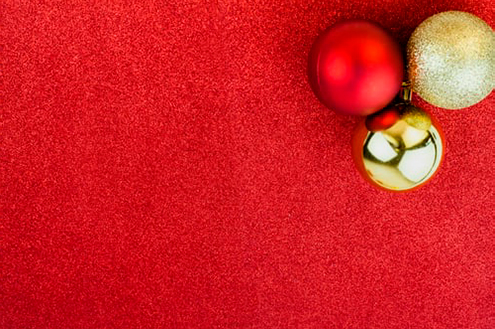
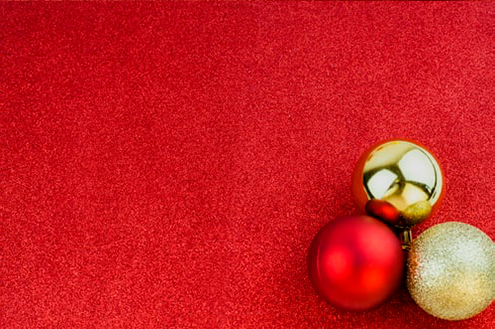
The practical task has been fixed

diff --git a/css/sale.css b/css/sale.css
@@ -129,7 +129,7 @@
   font-size: 40px;
   background-color: var(--fon-colops);
   border-radius: 20px;
-  padding: 25px 23px;
+  padding: 26px 21px;
   line-height: 59px;
 }
 
@@ -236,6 +236,9 @@
   background-image: url(../img/toys.jpg);
   background-repeat: no-repeat;
   border-radius: 20px;
+  background-position-x: 100%;
+  background-position-y: 100%;
+  background-size: 474px 341px;
 }
 
 
@@ -301,7 +304,9 @@
 
   .sale__sneakers {
     grid-area: 4 / 2 / 4 / 1;
-    background-position-x: 65%;
+    background-position-y: -2px;
+    background-position-x: -47px;
+    background-size: 360px 260px;
   }
 
   .sale__gift {
@@ -358,22 +363,25 @@
 
   .sale__sneakers {
     grid-area: 4 / 1 / 4 / 3;
-    background-size: 100%;
+    background-position-x: 0px;
+    background-position-y: -101px;
+    background-size: 580px 400px;
   }
 
   .sale__gift {
     grid-area: 3 / 5 / 5 / 3;
-    background-size: 100%;
   }
 
   .sale__idea {
     grid-area: 5 / 1 / 5 / 3;
-    background-size: 100%;
+    background-size: 567px 412px;
+    background-position-y: -106px;
   }
 
   .sale__profitably {
     grid-area: 6 / 3 / 6 / 1;
-    background-size: 100%;
+    background-position-y: -87px;
+    background-size: 569px 401px;
   }
 
   .sale__trappings {
@@ -382,7 +390,8 @@
 
   .sale__dresses {
     grid-area: 5 / 3 / 7 / 3;
-    background-size: 103%;
+    background-size: 442px 566px;
+    background-position-x: -101px;
   }
 
   .sale__chemical {
@@ -403,7 +412,7 @@
   .sale__list {
     gap: 24px;
     grid-template-columns: 217px 217px 217px 217px;
-    grid-template-rows: 217px 71px 217px 217px 217px 217px 217px 217px;
+    grid-template-rows: 217px 71px 217px 217px 217px 217px 217px 177px;
   }
 
   .sale__book, 
@@ -417,27 +426,26 @@
   .sale__chemical, 
   .sale__toys {
     border-radius: 16px;
-    background-size: cover;
   }
 
   .sale__laptop {
-    padding: 84px 112px 41px 80px;
-    background-position-x: -3px;
-    background-size: 101%;
-    background-position-y: 49.5%;
+    padding: 83px 112px 41px 80px;
+    background-position-x: -126px;
+    background-size: 119%;
+    background-position-y: 38.5%;
   }
 
   .sale__title {
     letter-spacing: 0.8px;
     line-height: 51px;
     font-size: 38px;
-    margin-bottom: 13px;
+    margin-bottom: 12px;
     width: 40%;
   }
 
   .sale__stock {
     margin-left: 32px;
-    margin-bottom: 13px;
+    margin-bottom: 15px;
   }
 
   .sale__num {
@@ -466,6 +474,9 @@
   .sale__book {
     padding: 128px 14px 23px 8px;
     line-height: 32px;
+    background-position-x: 50%;
+    background-position-y: 30%;
+    background-size: 290px 219px;
   }
 
   .sale__book-fw {
@@ -478,6 +489,9 @@
 
   .sale__discounts {
     padding: 61px 14px 8px 8px;
+    background-position-x: 50%;
+    background-position-y: 16%;
+    background-size: 330px 215px;
   }
 
   .sale__discounts-percent {
@@ -488,13 +502,15 @@
 
   .sale__sneakers {
     padding: 9px;
-    background-size: 101%;
-    background-position-y: 65%;
-    background-position-x: 50%;
+    background-position-y: -86px;
+    background-size: 458px 348px;
   }
 
   .sale__gift {
     padding: 290px 20px 20px 20px;
+    background-size: 490px 658px;
+    background-position-x: 0px;
+    background-position-y: -101px;
   }
 
   .sale__gift-text {
@@ -509,9 +525,8 @@
 
   .sale__idea {
     padding: 110px 33px 10px 21px;
-    background-position-y: -77px;
-    background-size: 100%;
-    background-position-x: 1px;
+    background-position-y: -87px;
+    background-size: 456px 351px;
   }
 
   .sale__idea-text {
@@ -520,21 +535,110 @@
     width: 80%;
     line-height: 40px;
   }
-}
 
-@media (max-width: 1024px)  {
-  .container {
-    max-width: 997px;
+  .sale__profitably {
+    padding: 119px 10px 10px 20px;
+    background-position-y: -76px;
+    background-size: 455px 352px;
+  }
+
+  .sale__profitably-text {
+    font-size: 30px;
+    padding-top: 42px;
+  }
+
+  .sale__profitably-percent {
+    padding-top: 29px;
+  }
+
+  .sale__dresses {
+    padding: 360px 10px 10px 119px;
+    background-size: 373px 456px;
+    background-position-x: -78px;
+  }
+
+  .sale__chemical {
+    background-size: 306px 216px;
+    padding: 9px 10px 10px 10px;
+  }
+
+  .sale__chemical-text {
+    font-size: 20px;
+    margin-top: 75px;
+    margin-left: 3px;
+  }
+
+  .sale__toys {
+    background-position-y: 103%;
+    background-size: 447px 298px;
+  }
+
+  .sale__trappings {
+    background-size: 938px 707px;
+    padding: 295px 10px 10px 30px;
+    background-position-y: -171px;
+  }
+
+  .sale__trappings-text {
+    width: 514px;
+    padding: 28px 47px 20px 46px;
+    font-size: 31px;
+    letter-spacing: -0.7px;
   }
 }
 
 @media (max-width: 997px)  {
-  .container {
-    max-width: 760px;
+  .sale__list {
+    gap: 20px;
+    grid-template-columns: 140px 140px 220px 140px;
+    grid-template-rows: 140px 120px 140px 140px 140px 140px 140px 177px;
   }
+
+  .sale__laptop {
+    padding: 61px 112px 41px 80px;
+  }
+
+  .sale__title {
+    font-size: 29px;
+    width: 65%;
+    letter-spacing: 0.5px;
+    margin-bottom: 76px;
+  }
+
+  .sale__stock {
+    font-size: 12px;
+    margin-left: 30px;
+    margin-bottom: 14px;
+  }
+
+  .sale__num {
+    font-size: 30px;
+  }
+
+  .sale__day,
+  .sale__oclock,
+  .sale__min {
+    font-size: 16px;
+  }
+
+  .sale__day {
+    width: 0;
+    /* Фальшивые данные исправить */
+  }
+
+  .sale__oclock {
+    width: 0;
+    /* Фальшивые данные исправить */
+  }
+
+  .sale__min {
+    width: 111px;
+    padding: 1px 1px 1px 1px;
+  }
+
 }
 
-@media (max-width: 768px)  {
+@media (max-width: 767px)  {
   .container {
     max-width: 560px;
   }

diff --git a/css/header.css b/css/header.css
@@ -228,23 +228,27 @@
 }
 
 @media (max-width: 997px)  {
+  .header {
+    padding-bottom: 25px;
+  }
+
   .header__block {
-    grid-template-columns: 161px 369px 110px 59px;
+    grid-template-columns: 161px 368px 110px 59px;
     grid-column-gap: 0px;
     grid-row-gap: 2px;
   }
 
   .header__logo{
-    width: 165px;
+    width: 164px;
     height: 35px;
     margin-top: 13px;
   }
 
   .nav__btn {
     font-size: 16px;
-    width: 115px;
-    height: 42px;
-    padding: 15px 20px;
+    width: 114px;
+    height: 41px;
+    padding: 11px 21px;
     border-radius: 6px;
   }
 
@@ -255,15 +259,15 @@
   .header__inp {
     height: 42px;
     font-size: 12px;
-    padding: 14px 100px 14px 40px;
+    padding: 13px 92px 14px 28px;
     width: 540px;
   }
 
   .header__btn {
-    width: 82px;
+    width: 81px;
     height: 42px;
     top: 0;
-    right: 0;
+    right: -1px;
     background-size: 21px;
   }
 
@@ -271,7 +275,7 @@
   .header__basket,
   .header__favourites {
     font-size: 12px;
-    margin-top: 0;
+    margin-top: 3px;
   }
 
   .header__profile {
@@ -309,7 +313,7 @@
   }
 }
 
-@media (max-width: 768px)  {
+@media (max-width: 767px)  {
   .header__block {
     grid-template-rows: 50px 50px 50px;
     grid-template-columns: 161px 214px 86px 59px;
@@ -335,6 +339,10 @@
 
   .header__favourites {
     grid-area: 1 / 4 / 4 / 4;
+  }
+
+  .nav__btn {
+    padding: 11px 23px;
   }
 }
 

diff --git a/index.html b/index.html
@@ -7,7 +7,7 @@
     <title>Lesson_07</title>
   </head>
   <body>
-    <!-- Перевернуть картинку в фотошопе с новогодними игрушками, изменить размер внутреннего изображения в медия от 1880px до 320рх -->
+    <!-- Экран 997 макет 768 -->
     <header class="header">
       <div class="container">
         <div class="header__block">

diff --git a/css/style.css b/css/style.css
@@ -116,11 +116,11 @@ iframe {
 
 @media (max-width: 997px)  {
   .container {
-    max-width: 760px;
+    max-width: 740px;
   }
 }
 
-@media (max-width: 768px)  {
+@media (max-width: 766px)  {
   .container {
     max-width: 560px;
   }
